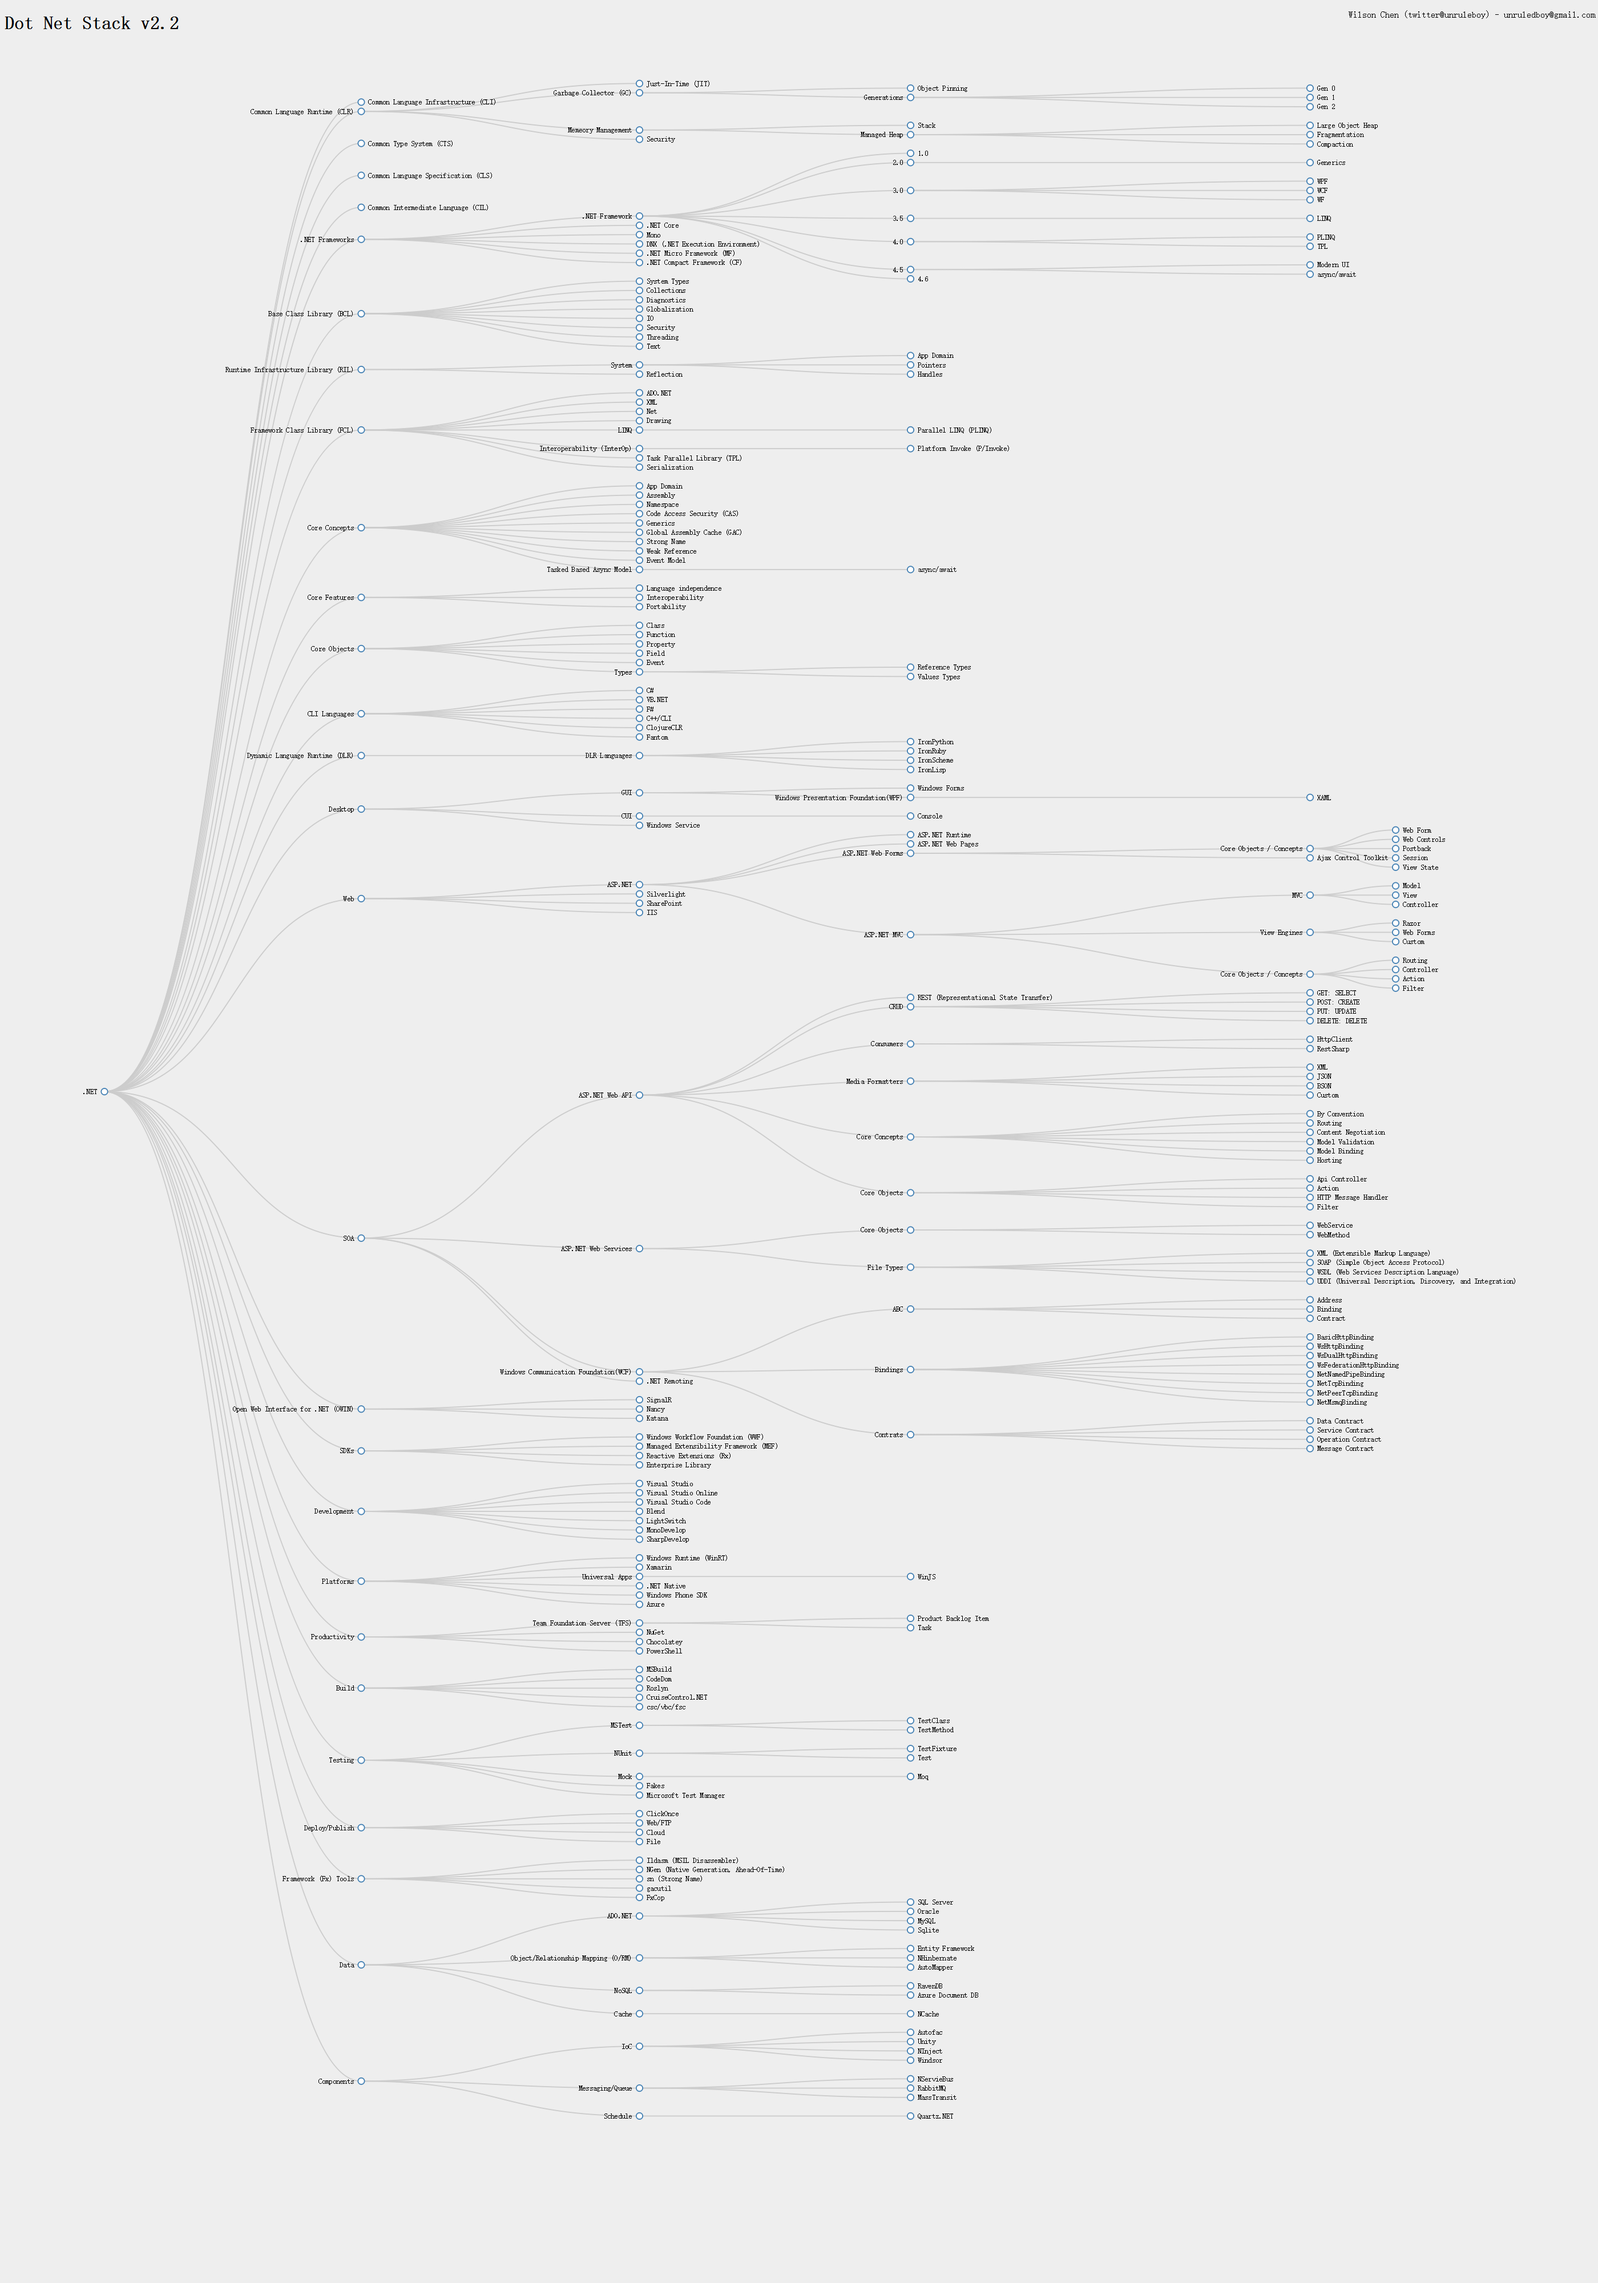
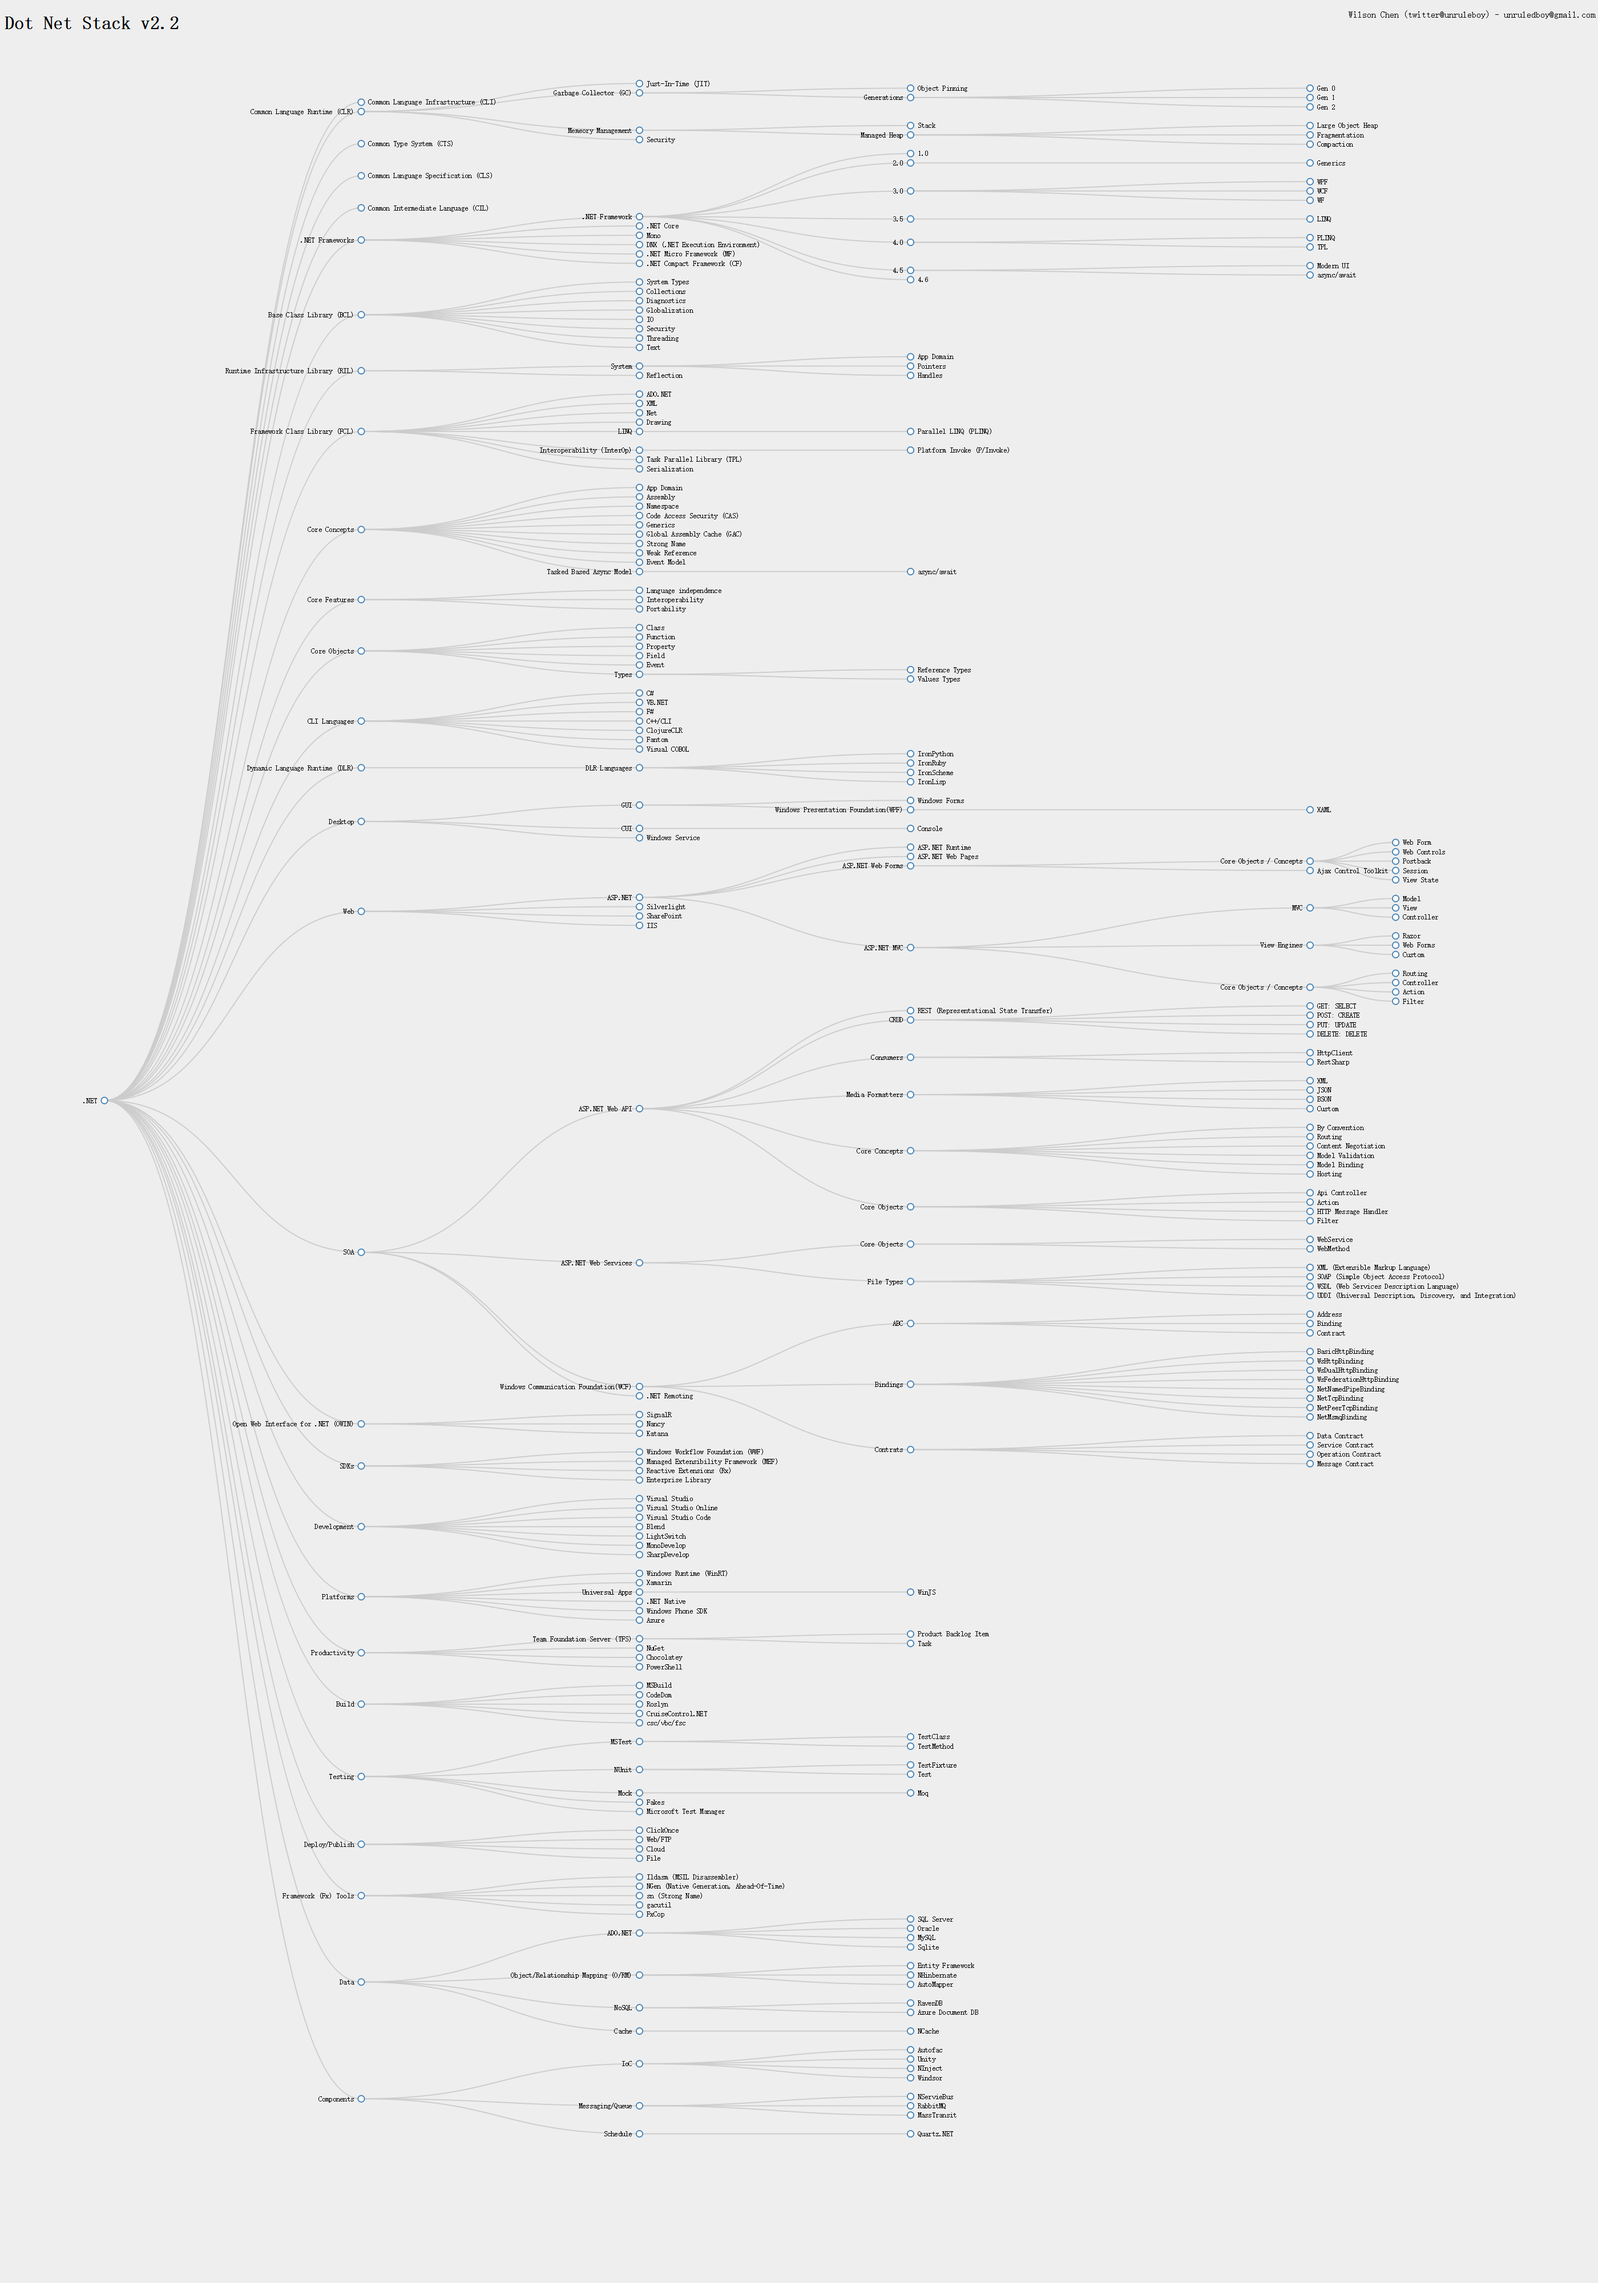
added Visual COBOL
COBOL...... wow

diff --git a/README.md b/README.md
@@ -133,6 +133,7 @@ https://rawgit.com/unruledboy/DotNetStack/master/ux/DotNetStack.htm
 		- C++/CLI
 		- ClojureCLR
 		- Fantom
+		- Visual COBOL
 	- Dynamic Language Runtime (DLR)
 		- DLR Languages
 			- IronPython
